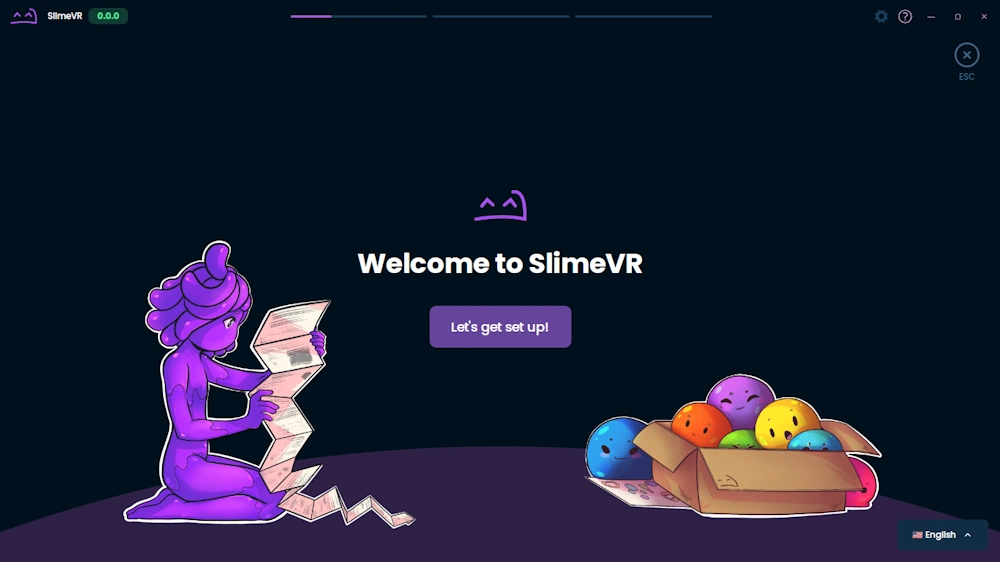
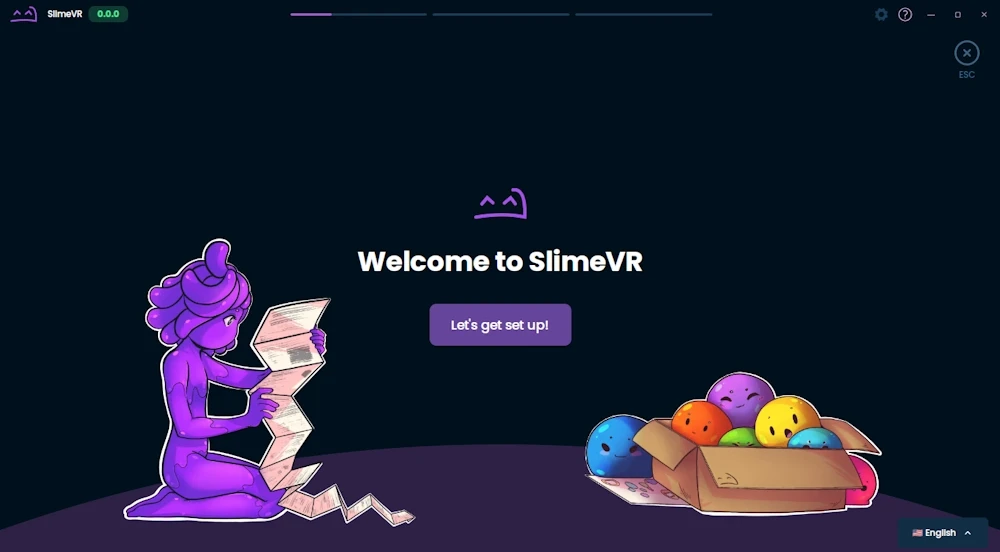
fix: accessibility + optimization
this and last commit are mostly suggestions from pagespeed, mainly for proper labels.

embeds are also now youtube-nocookie & only loads the initial (first video's) iframe on click to stop the yt embed slowing down the page

diff --git a/src/components/home/VideoSection.tsx b/src/components/home/VideoSection.tsx
@@ -73,10 +73,11 @@ const VideoThumbnail: Component<{
   return (
     <button
       class={clsx(
-        "rounded-lg overflow-clip aspect-video h-22.5 sm:h-31.5 relative border-2",
+        "rounded-lg overflow-clip aspect-video h-22.5 sm:h-31.5 relative border-2 cursor-pointer",
         props.active ? "border-accent-background-10" : "border-transparent"
       )}
       onClick={props.onClick}
+      aria-label="Play video"
     >
       <div
         class={clsx(
@@ -89,6 +90,7 @@ const VideoThumbnail: Component<{
         src={props.thumbnail}
         class="w-full h-full object-cover absolute top-0"
         loading="lazy"
+        alt="Video thumbnail"
       ></img>
 
       <div
@@ -122,6 +124,7 @@ const VideoControl: Component<{
         )}
         disabled={!props.active}
         onClick={props.onClick}
+        aria-label={props.next ? "Next video" : "Previous video"}
       >
         <ArrowIcon
           direction={props.next ? "right" : "left"}
@@ -220,18 +223,39 @@ export const VideoSection: Component = () => {
       <div class="flex">
         <div class="flex grow flex-col gap-2 sm:gap-4 w-full">
           <div class="flex gap-4 flex-col justify-center">
-            <div class="w-full flex aspect-video bg-background-60 rounded-lg  md:rounded-3xl p-2 md:p-4  border border-background-40">
-              <iframe
-                width="100%"
-                class="rounded-lg"
-                src={
-                  currentVideo().src + `?&autoplay=${autoplay() ? "1" : "0"}`
-                }
-                allow="accelerometer; autoplay; clipboard-write; encrypted-media; gyroscope; picture-in-picture; web-share"
-                referrerpolicy="strict-origin-when-cross-origin"
-                allowfullscreen
-                loading="lazy" 
-              ></iframe>
+            <div class="w-full flex aspect-video bg-background-60 rounded-lg md:rounded-3xl p-2 md:p-4 border border-background-40">
+              {autoplay() ? (
+                <iframe
+                  title="YouTube video player"
+                  width="100%"
+                  class="rounded-lg"
+                  src={currentVideo().src + `?&autoplay=1`}
+                  allow="accelerometer; autoplay; clipboard-write; encrypted-media; gyroscope; picture-in-picture; web-share"
+                  referrerpolicy="strict-origin-when-cross-origin"
+                  allowfullscreen
+                ></iframe>
+              ) : (
+                <button
+                  class="w-full h-full relative flex items-center justify-center rounded-lg overflow-hidden cursor-pointer"
+                  aria-label="Play video"
+                  onClick={() => setAutoplay(true)}
+                >
+                  <img
+                    src={currentVideo().thumbnail.replace(
+                      "hqdefault",
+                      "maxresdefault"
+                    )}
+                    class="w-full h-full object-cover absolute top-0"
+                    loading="lazy"
+                    alt="Video thumbnail"
+                  ></img>
+                  <div class="relative z-10 bg-transparent border-0 p-0">
+                    <div class="bg-accent-background-10 w-16 h-16 rounded-full p-3 flex justify-center">
+                      <PlayIcon size={26} class="fill-background-10"></PlayIcon>
+                    </div>
+                  </div>
+                </button>
+              )}
             </div>
             <div class="flex gap-2 md:gap-4 justify-center items-center">
               <VideoControl
@@ -239,7 +263,7 @@ export const VideoSection: Component = () => {
                 active={shouldShowPrev()}
               ></VideoControl>
               <div
-                class="flex overflow-x-auto no-scrollbar scroll-smooth bg-background-60 rounded-lg  md:rounded-3xl p-2 md:p-4 border border-background-40"
+                class="flex overflow-x-auto no-scrollbar scroll-smooth bg-background-60 rounded-lg md:rounded-3xl p-2 md:p-4 border border-background-40"
                 ref={videosScrollRef}
               >
                 <div class="flex gap-2 md:gap-4" ref={videosContainerRef}>

diff --git a/src/components/home/HeroSection.tsx b/src/components/home/HeroSection.tsx
@@ -16,7 +16,11 @@ const TrackerCard: Component<{
 }> = (props) => {
   return (
     <div class="group rounded-2xl flex flex-col overflow-clip items-center gap-2 sm:gap-4 justify-between bg-background-60/40 border backdrop-blur-[9px] border-background-30/80">
-      <A class="px-12 pt-8 flex flex-col items-center w-full" href={props.href}>
+      <A
+        class="px-12 pt-8 flex flex-col items-center w-full"
+        href={props.href}
+        aria-label="Card linking to SlimeVR tracker order page"
+      >
         <Typography
           tag="h1"
           textAlign="text-center"
@@ -28,21 +32,25 @@ const TrackerCard: Component<{
             src="/images/purple_glow.webp"
             loading="lazy"
             class="absolute object-contain h-full scale-200 blur-2xl no-interact"
+            alt=""
           />
           <img
             src="/images/tracker_card_border.webp"
             loading="lazy"
             class="absolute object-contain h-full -top-5 scale-[90%] group-hover:rotate-1 transition-transform duration-500 no-interact"
+            alt=""
           />
           <img
             src={props.mainImage}
             loading="lazy"
             class="absolute object-contain h-full blur-[3px] group-hover:-rotate-3 transition-transform no-interact"
+            alt=""
           />
           <img
             src={props.mainImage}
             loading="lazy"
             class="absolute object-contain h-full group-hover:-rotate-3 transition-transform no-interact"
+            alt="SlimeVR tracker image"
           />
         </div>
         <Typography
@@ -152,16 +160,19 @@ export const HeroSection: Component = () => {
             src="/images/nighty_floating.webp"
             loading="lazy"
             class="absolute -z-10 scale-[150%] md:mt-90 mt-40 md:animate-floating blur-lg min-w-280 left-1/2 -translate-x-[55%] md:-translate-x-1/2"
+            alt="Nightly floating in the background"
           ></img>
           <img
             src="/images/nighty_floating.webp"
             loading="lazy"
             class="absolute -z-10 scale-[150%] md:mt-90 mt-40 md:animate-floating min-w-280 left-1/2 -translate-x-[55%] md:-translate-x-1/2 brightness-75 md:brightness-100"
+            alt=""
           ></img>
           <img
             src="/images/stars.webp"
             loading="lazy"
             class="absolute -z-10 scale-[135%] md:mt-80 mt-40 md:animate-stars"
+            alt=""
           ></img>
         </div>
 
@@ -171,14 +182,21 @@ export const HeroSection: Component = () => {
             src="/images/purple_glow.webp"
             loading="lazy"
             class="w-full scale-120 absolute top-0 -z-10"
+            alt=""
           ></img>
           <img
             src="/images/butterfly_tracker.webp"
             loading="lazy"
             class="w-full animate-rotated"
+            alt="SlimeVR Butterfly Tracker floating in the background"
           ></img>
           <div class="absolute w-full h-full top-20 left-0 brightness-90 animate-stars2 -z-10">
-            <img src="/images/stars.webp" loading="lazy" class="w-full"></img>
+            <img
+              src="/images/stars.webp"
+              loading="lazy"
+              class="w-full"
+              alt=""
+            ></img>
           </div>
         </div>
       </div>

diff --git a/src/layouts/MainLayout.tsx b/src/layouts/MainLayout.tsx
@@ -69,12 +69,12 @@ const ExplosionDot: Component = () => {
 };
 
 interface MainLaoutProps {
-  variant?: 'default' | 'butterfly' | 'og-slime';
+  variant?: "default" | "butterfly" | "og-slime";
 }
 
 export const MainLayout: ParentComponent<MainLaoutProps> = (props) => {
   return (
-    <div class={clsx("flex flex-col min-h-screen pattern", props.variant)}>
+    <main class={clsx("flex flex-col min-h-screen pattern", props.variant)}>
       <div class="relative overflow-clip grow">
         <ExplosionDot></ExplosionDot>
         <ExplosionDot></ExplosionDot>
@@ -84,6 +84,7 @@ export const MainLayout: ParentComponent<MainLaoutProps> = (props) => {
           <img
             class="absolute w-full top-0 no-interact"
             src="/images/Webpage_Design_Parts_header_block.webp"
+            alt=""
           ></img>
           <div class="max-w-6xl 2xl:max-w-350 w-full top-5 z-20 px-4">
             <Navbar></Navbar>
@@ -92,6 +93,6 @@ export const MainLayout: ParentComponent<MainLaoutProps> = (props) => {
         </div>
       </div>
       <Footer></Footer>
-    </div>
+    </main>
   );
 };

diff --git a/src/components/home/DownloadSection.tsx b/src/components/home/DownloadSection.tsx
@@ -114,8 +114,8 @@ export const DownloadSection: Component = () => {
         <Typography tag="h2" variant="main-title" textAlign="text-center">
           Download SlimeVR Server
         </Typography>
-        <div class="absolute -top-24 -left-44 scale-40 -z-10 no-interact">
-          <img src="/images/butterfly1.webp" loading="lazy"></img>
+        <div class="absolute -top-10 -left-21 scale-90 -z-10 no-interact">
+          <img src="/images/butterfly1.webp" alt="" loading="lazy"></img>
         </div>
       </div>
       <div class="flex gap-4 md:gap-8 flex-col md:flex-row w-full">
@@ -162,6 +162,7 @@ export const DownloadSection: Component = () => {
                 src="/images/slimevr_desktop.webp"
                 class="w-full aspect-video p-2 rounded-2xl"
                 loading="lazy"
+                alt="SlimeVR Server running on a PC"
               ></img>
             </div>
 
@@ -170,6 +171,7 @@ export const DownloadSection: Component = () => {
                 class="w-full rounded-lg"
                 loading="lazy"
                 src="/images/slimevr_mobile.webp"
+                alt="SlimeVR Server running on a phone"
               ></img>
             </div>
           </div>

diff --git a/src/components/home/QASection.tsx b/src/components/home/QASection.tsx
@@ -65,7 +65,11 @@ export const QASection: Component = () => {
     <div class="flex md:gap-12 relative md:pl-12">
       <div class="sticky top-0 left-0 h-full sm:flex hidden">
         <div class="md:flex w-72 items-center justify-center pt-12 hidden">
-          <img src={currentImage()} class="object-contain object-center no-interact"></img>
+          <img
+            src={currentImage()}
+            class="object-contain object-center no-interact"
+            alt=""
+          ></img>
         </div>
       </div>
       <div class="flex flex-col gap-3 w-full">

diff --git a/src/components/Navbar.tsx b/src/components/Navbar.tsx
@@ -94,6 +94,7 @@ export const Navbar: Component = (props) => {
               <Button
                 variant="primary"
                 href="https://www.crowdsupply.com/slimevr/slimevr-full-body-tracker"
+                aria-label="Order SlimeVR 1.2 trackers"
               >
                 <Localized id="navbar.order" />
               </Button>
@@ -102,6 +103,7 @@ export const Navbar: Component = (props) => {
               <button
                 class="hover:bg-background-60 px-4 rounded-lg"
                 onClick={() => setOpen((open) => !open)}
+                aria-label="Toggle navigation menu"
               >
                 <BarsIcon size={20} class="fill-background-10"></BarsIcon>
               </button>

diff --git a/src/routes/[...404].tsx b/src/routes/[...404].tsx
@@ -15,7 +15,7 @@ export default function NotFound() {
             Page not found
           </Typography>
           <div class="flex justify-center">
-            <img src="/images/sad-slime.gif"></img>
+            <img src="/images/sad-slime.gif" alt="Sad slime"></img>
           </div>
           <ArrowButton href="/">Go back to the home page</ArrowButton>
         </Container>

diff --git a/src/routes/index.tsx b/src/routes/index.tsx
@@ -30,6 +30,7 @@ const UseCaseCard: Component<{ title: string; image: string; desc: string }> = (
           src={props.image}
           loading="lazy"
           class="h-full sm:w-full sm:h-auto sm:p-8 md:p-0"
+          alt={props.title}
         />
       </div>
       <div class="flex flex-col sm:gap-4 sm:justify-center sm:w-full">